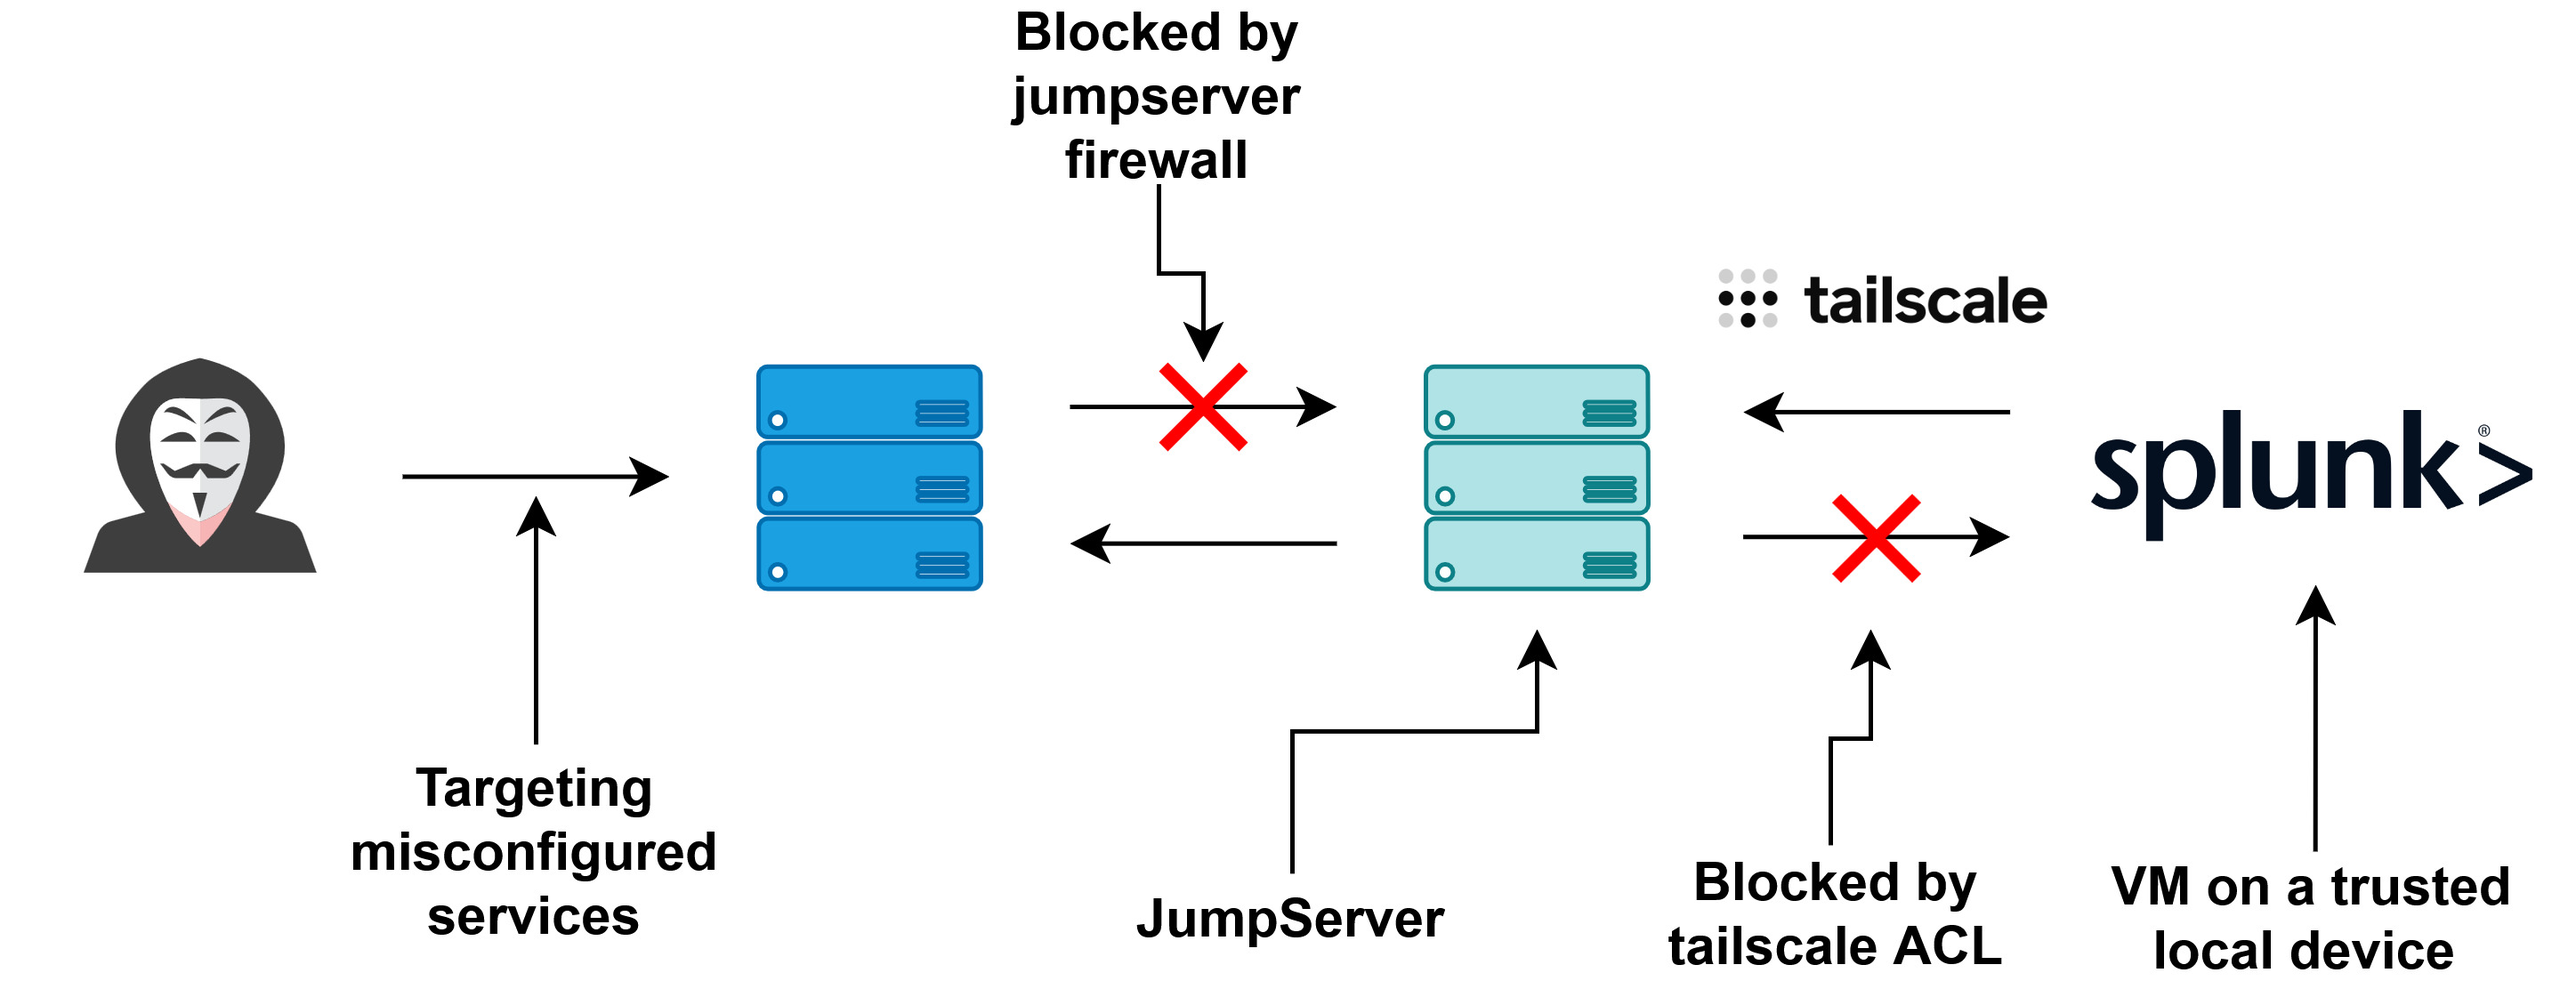
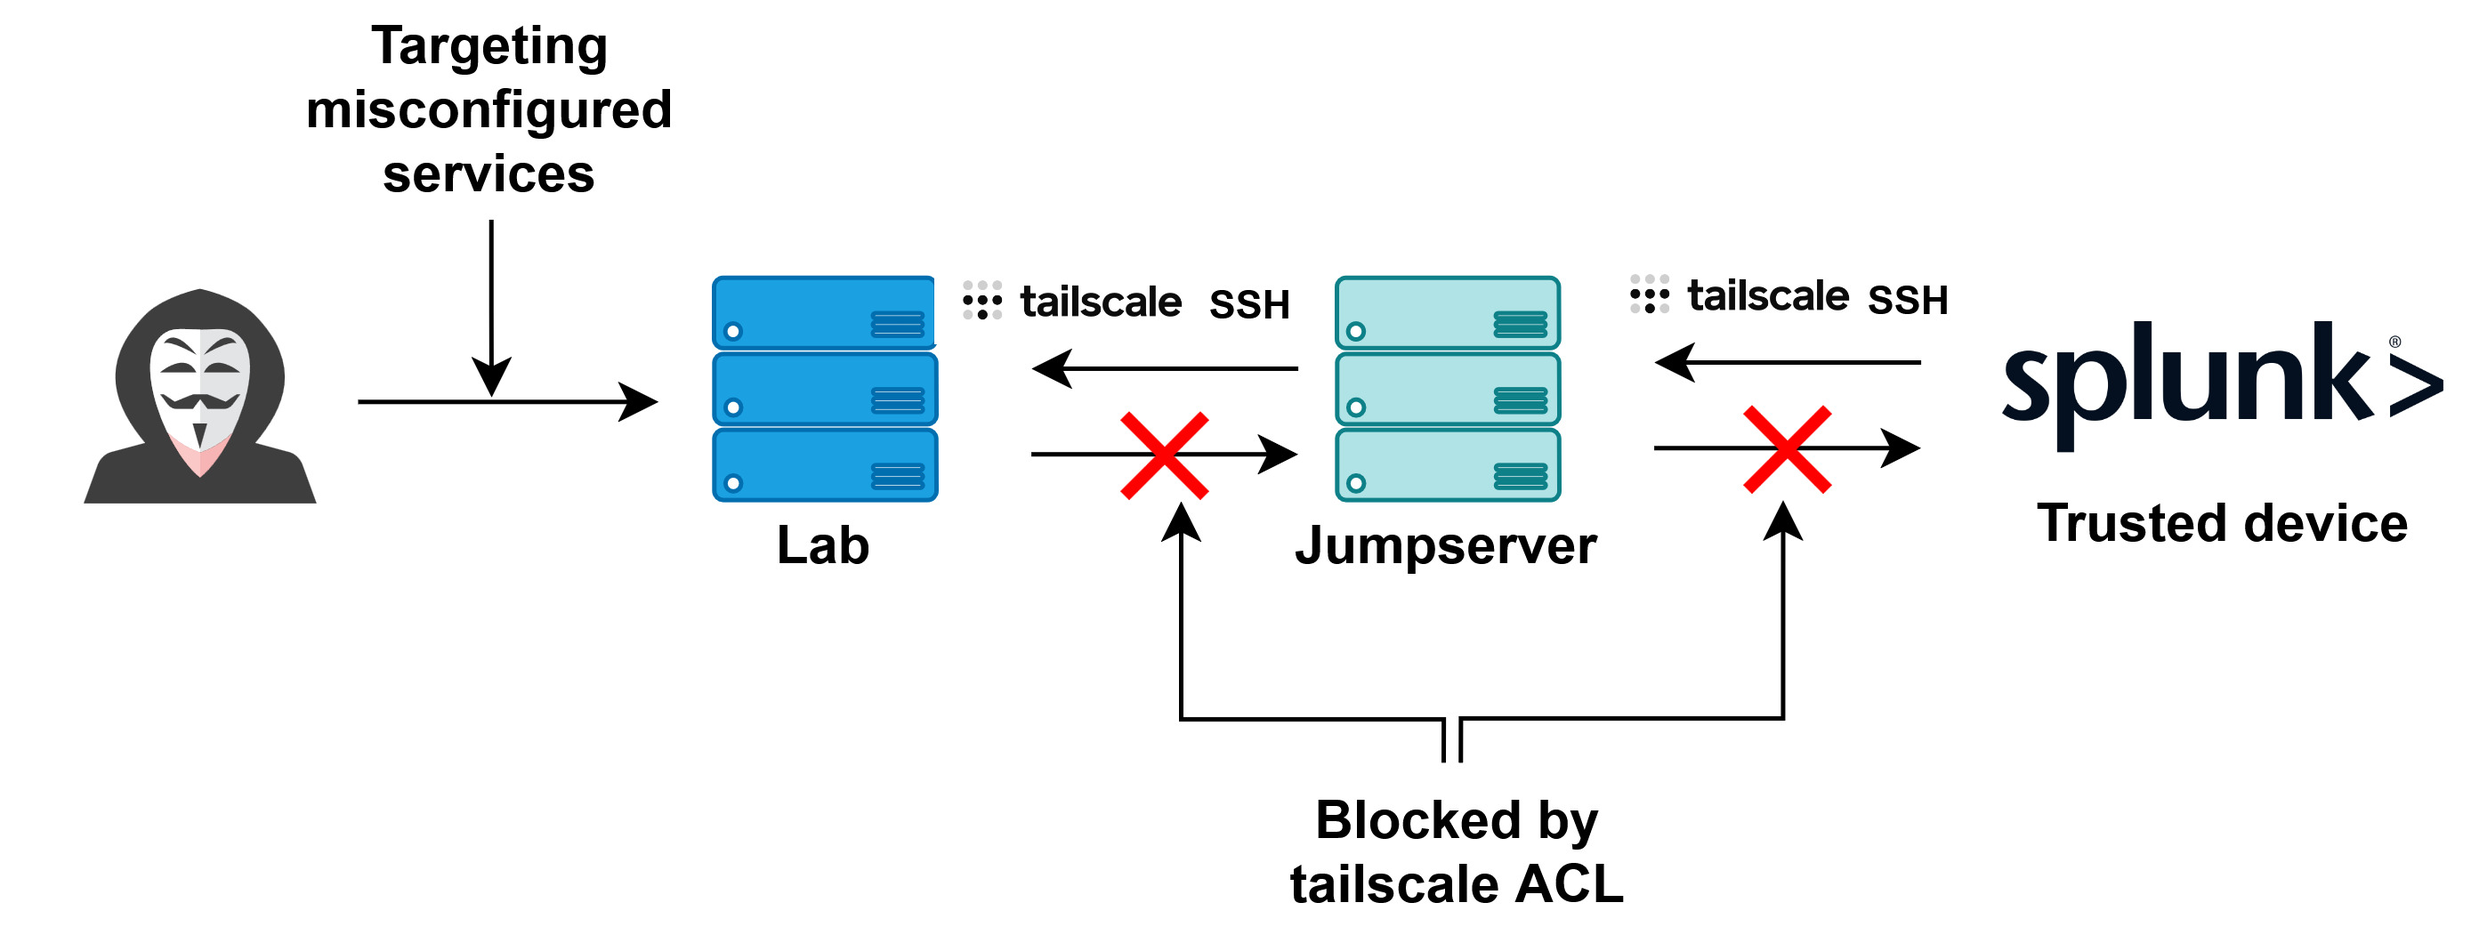
blog1

diff --git a/vite.config.js b/vite.config.js
@@ -4,9 +4,9 @@ import { defineConfig } from 'vite';
 export default defineConfig({
 	plugins: [sveltekit()],
 	server: {
-        host:'0.0.0.0',
-        fs: {
-            allow: ['..']
-        }
-    }
+		// host:'0.0.0.0',
+		fs: {
+			allow: ['..']
+		}
+	}
 });

diff --git a/src/lib/posts/Splunk_Log_Analysis_On_Oracle_Cloud_Instance.md.md b/src/lib/posts/Splunk_Log_Analysis_On_Oracle_Cloud_Instance.md.md
@@ -1,5 +1,5 @@
 ---
-title: "Splunk Log Analysis On Oracle Cloud Instance"
+title: "Splunk Setup On Oracle Cloud Instance"
 date: "2025-11-25"
 updated: "2025-11-25"
 categories:
@@ -29,7 +29,7 @@ While my [personal homelab](https://github.com/hiCozyty/homelab) is still a work
 
 So we turn to either AWS or Oracle Cloud who offer free plans. Since I'm already using AWS, Oracle it is. I know Azure also offer a generous plan, but I'm saving that for Windows stuff later down the road.  
 
-For capturing potential sniffing or attacks, Oracle Cloud Infrastructure (OCI) provides an [in-house solution](https://blogs.oracle.com/observability/la-demystifying-agent-om-oci) called `OCI Observability and Management`, in which monitoring agents are deployed and the logs are automatically captured in their OCI log storage. 
+For capturing potential sniffing or attacks, Oracle Cloud Infrastructure (OCI) provides an [in-house solution](https://blogs.oracle.com/observability/la-demystifying-agent-om-oci) called `OCI Observability and Management`, in which monitoring agents are deployed. The logs that are then automatically captured in the OCI log storage. 
 
 When considering the data ingestion limit of splunk free tier at 500MB/day and OCI log storage limit of 10GB/month, OCI log storage is the bottleneck here. 
 
@@ -48,9 +48,15 @@ This instance can remain free afterwards.
 ## Objectives
 The endgoal for me is to produce a minimum working lab with secure logging attached where I can add more features to the log producing machine in the future based on my needs.
 
-The logs should undergo automatic pruning during rsyslog. 
+* First I need to secure the machines in a way that, if the lab VM is compromised, my trusted device is protected. 
 
-When considering Splunk free tier's daily data ingestion limit, I would need to implement some sort of network rate limiter or debouncer in the log producing machine.
+* When considering Splunk free tier's daily data ingestion limit, I would need to implement some sort of network rate limiter or debouncer in the lab machine.
+
+* The jump server, which will allow me to access the lab VM securely, will also serve as a data storage server. It has a storage limit of around 50GB. I will implement an automatic data pruner. 
+
+* I will need to implement some sort of data ingestion mechanism from the trusted device side. I'm leaning towards manual ingestion because I don't usually leave the machine on all day. I will figure this out when I get there.
+
+* For log forwarding from lab to jump server to my trusted device, I will use rsyslog and Splunk universal forwarder. 
 
 
 ## Planned Topology
@@ -65,28 +71,237 @@ When considering Splunk free tier's daily data ingestion limit, I would need to 
 
 ## Tailscale
 For this project, I'm using my throwaway account.
-![acl](/static/blogImages/blog1/acl.png)
-For quick sanity check, I uncommented the second line in the ACL and spun up a python http server then tried to `wget` from the jumpserver. `wget` was working when the second ACL line was uncommented, and not working when commented out. Perfect.
+![acl](/static/blogImages/blog1/acl.jpg)
+For quick sanity check, I spun up a python http server from splunk then tred to `wget` from either the jump server or the lab. It didn't work. Great.
 ```
 python3 -m http.server 8000
 ```
 
 ## Oracle Cloud Initial Configuration
-Let's first do some updates and run an auto updater so I can set it and forget it.
+Let's look at the official tailscale [documentation](https://tailscale.com/kb/1149/cloud-oracle) for accessing Oracle Cloud VMs privately using tailscale.
+Setup the ingress rules to allow `UDP port 41641`. 
 
-
-Default Username `opc` has sudo privilges by default. Let's follow principle of least privilege and create new user account.
+Then set to both jump server and lab:
 ```
-sudo adduser admin
-sudo mkdir -p /home/admin/.ssh
-sudo cp ~/.ssh/authorized_keys /home/admin/.ssh/
-sudo chown -R admin:admin /home/admin/.ssh
-sudo chmod 700 /home/admin/.ssh
-sudo chmod 600 /home/admin/.ssh/authorized_keys
+tailscale set --ssh --advertise-routes=10.0.0.0/24,169.254.169.254/32 --accept-dns=false
+```
+Then add Oracle DNS nameserver in the tailscale dashboard and approve the subnets.
+
+<Callout>
+For legal reasons, we will set the egress rule to DENY everything (with the exception of tailscale UDP and ICMP) inside the lab VM. Splunk learning is mostly parsing the initial point of contact logs.
+
+Post-compromise activity is cool and interesting, but I believe they are for more out of scope topics like threat intelligence and incident response.
+</Callout>
+
+## ssh logs 
+For this starter project, I will focus only on `/var/log/secure`, which hold ssh related logs. The next project will try to get other logs from sources such as intrusion detection systems, databases, web servers, etc. 
+
+Almalinux default rsyslog archive rate is every 7 days with a retention policy of 30 days. The plan is to change the archive rate for `/var/log/secure` to daily so I can properly monitor the daily log size to be under the 500MB limit. Then, implement an ingress traffic blocker using the [OCI CLI](https://github.com/oracle/oci-cli). 
+
+What is rsyslog? It is a daemon that created the `/var/log/secure` directory and writes to it.
+
+```
+sudo nano /etc/logrotate.d/secure-daily
+
+#Add this content:
+/var/log/secure
+{
+    daily
+    rotate 30
+    missingok
+    notifempty
+    compress
+    delaycompress
+    sharedscripts
+    postrotate
+        /usr/bin/systemctl reload rsyslog.service >/dev/null 2>&1 || true
+    endscript
+}
+
+# Remove `/var/log/secure` from the list, so it looks like:
+/var/log/cron
+/var/log/maillog
+/var/log/messages
+/var/log/spooler
+{
+    missingok
+    sharedscripts
+    postrotate
+        /usr/bin/systemctl reload rsyslog.service >/dev/null 2>&1 || true
+    endscript
+}
+#check for syntax errors
+sudo logrotate -d /etc/logrotate.d/secure-daily
+
+#force a rotation to test (actually rotates the file)
+sudo logrotate -f /etc/logrotate.d/secure-daily
+
+#verify it worked
+ls -lh /var/log/secure*
+
 ```
 
-## Jumpserver Firewall config
+## Configuring OCI CLI And Creating A Cronjob Log Size Watcher
+OCI provides a CLI tool SDK wrapper for managing ingress and egress rules directly from the machine. I will leverage this tool to create a watcher program that monitors the size of the log directory of interests (ssh for now) and automatically deny all network ingress traffic if the log size exceeds the daily threshold (500MB). 
 
+Since I updated the data archive rate to daily earlier, once the log size resets, the watcher will automatically restore the ingress rule to allow traffic again. 
+
+```
+# Install OCI CLI
+bash -c "$(curl -L https://raw.githubusercontent.com/oracle/oci-cli/master/scripts/install/install.sh)"
+
+# Configure with your credentials using OCID, Tenancy OCID, region, and API key (generate in OCI Console → User Settings → API Keys)
+oci setup config
+
+# List your VCN
+oci network vcn list --compartment-id <my-compartment-ocid>
+
+# List security lists for your VCN
+oci network security-list list --compartment-id <my-compartment-ocid> --vcn-id <my-vcn-ocid>
+
+# Save your security list OCID for the below script
+```
+Create a monitoring script with OCI cli
+```
+sudo nano /usr/local/bin/log-size-monitor.sh
+```
+```
+#!/bin/bash
+
+# Configuration
+MAX_SIZE_MB=500
+MAX_SIZE_BYTES=$((MAX_SIZE_MB * 1024 * 1024))
+ALERT_FILE="/var/log/log-size-alert"
+LOCKFILE="/var/run/network-blocked.lock"
+
+# OCI Configuration
+SECURITY_LIST_OCID="ocid1.securitylist.oc1...." # YOUR SECURITY LIST OCID HERE
+BACKUP_RULES_FILE="/var/log/oci-original-rules.json"
+
+# Array of log files to monitor
+LOG_FILES=(
+    "/var/log/secure"
+    # "/var/log/suricata/eve.json"
+    # "/var/log/httpd/access_log"
+)
+
+# Calculate total size
+TOTAL_SIZE=0
+for LOG_FILE in "${LOG_FILES[@]}"; do
+    if [ -f "$LOG_FILE" ]; then
+        FILE_SIZE=$(stat -c%s "$LOG_FILE" 2>/dev/null)
+        TOTAL_SIZE=$((TOTAL_SIZE + FILE_SIZE))
+    fi
+done
+
+TOTAL_SIZE_MB=$((TOTAL_SIZE / 1024 / 1024))
+
+# Check if currently blocked
+if [ -f "$LOCKFILE" ]; then
+    # We're blocked - check if we can restore
+    if [ "$TOTAL_SIZE" -lt "$MAX_SIZE_BYTES" ]; then
+        echo "$(date): Log size back to normal (${TOTAL_SIZE_MB}MB), restoring network..." >> "$ALERT_FILE"
+        
+        # Restore original ingress rules from backup
+        if [ -f "$BACKUP_RULES_FILE" ]; then
+            ORIGINAL_RULES=$(cat "$BACKUP_RULES_FILE")
+            
+            oci network security-list update \
+              --security-list-id "$SECURITY_LIST_OCID" \
+              --ingress-security-rules "$ORIGINAL_RULES" \
+              --force >> "$ALERT_FILE" 2>&1
+            
+            if [ $? -eq 0 ]; then
+                rm -f "$LOCKFILE"
+                rm -f "$BACKUP_RULES_FILE"
+                echo "$(date): Network restored via OCI" >> "$ALERT_FILE"
+            else
+                echo "$(date): ERROR: Failed to restore network rules" >> "$ALERT_FILE"
+            fi
+        else
+            echo "$(date): ERROR: Backup rules file not found" >> "$ALERT_FILE"
+        fi
+    fi
+else
+    # Not blocked - check if we should block
+    if [ "$TOTAL_SIZE" -ge "$MAX_SIZE_BYTES" ]; then
+        echo "$(date): Combined log size exceeded ${MAX_SIZE_MB}MB (current: ${TOTAL_SIZE_MB}MB)" >> "$ALERT_FILE"
+        
+        # List individual file sizes
+        echo "$(date): Individual file sizes:" >> "$ALERT_FILE"
+        for LOG_FILE in "${LOG_FILES[@]}"; do
+            if [ -f "$LOG_FILE" ]; then
+                SIZE=$(stat -c%s "$LOG_FILE" 2>/dev/null)
+                SIZE_MB=$((SIZE / 1024 / 1024))
+                echo "  $LOG_FILE: ${SIZE_MB}MB" >> "$ALERT_FILE"
+            fi
+        done
+        
+        # Backup current ingress rules
+        oci network security-list get \
+          --security-list-id "$SECURITY_LIST_OCID" \
+          --query 'data."ingress-security-rules"' \
+          > "$BACKUP_RULES_FILE" 2>> "$ALERT_FILE"
+        
+        # Block all ingress traffic (except Tailscale if you want to keep access)
+        # Option A: Block everything
+        BLOCK_RULES='[{"source":"0.0.0.0/0","protocol":"all","isStateless":true,"description":"AUTO-BLOCK: Log limit exceeded"}]'
+        
+        # Option B: Block everything except Tailscale (recommended)
+        # BLOCK_RULES='[{"source":"0.0.0.0/0","protocol":"all","isStateless":true,"tcpOptions":null,"udpOptions":null,"description":"AUTO-BLOCK"},{"source":"0.0.0.0/0","protocol":"17","isStateless":false,"udpOptions":{"destinationPortRange":{"min":41641,"max":41641}},"description":"Keep Tailscale"}]'
+        
+        oci network security-list update \
+          --security-list-id "$SECURITY_LIST_OCID" \
+          --ingress-security-rules "$BLOCK_RULES" \
+          --force >> "$ALERT_FILE" 2>&1
+        
+        if [ $? -eq 0 ]; then
+            touch "$LOCKFILE"
+            echo "$(date): Emergency network block activated via OCI" >> "$ALERT_FILE"
+        else
+            echo "$(date): ERROR: Failed to apply network block" >> "$ALERT_FILE"
+        fi
+    fi
+fi
+```
+
+```
+# make executable
+sudo chmod +x /usr/local/bin/log-size-monitor.sh
+```
+
+The script runs as root via cron, so root needs access to OCI CLI config:
+```
+# If you configured OCI CLI as opc user
+sudo mkdir -p /root/.oci
+sudo cp ~/.oci/config /root/.oci/
+sudo cp ~/.oci/oci_api_key.pem /root/.oci/
+sudo chmod 600 /root/.oci/config /root/.oci/oci_api_key.pem
+```
+
+Let's test it
+```
+# Test OCI CLI works as root
+sudo oci network security-list get --security-list-id <your-ocid>
+
+# Test the script manually
+sudo /usr/local/bin/log-size-monitor.sh
+
+# Check for errors
+cat /var/log/log-size-alert
+```
+Add to cronjob that watches the log file(s) every 1 minute
+
+```
+sudo crontab -e
+* * * * * /usr/local/bin/log-size-monitor.sh
+```
+
+The cronjob should now handle automatic network restoration after every daily archive.
+
+## Automated Log Data Pusher From Lab To Jumpserver With Pruning
+
+## Splunk Universal Forwarder From Jumpserver To Splunk
 
 ## Resources
 https://tailscale.com/kb/1149/cloud-oracle

diff --git a/README.md b/README.md
@@ -1,3 +1,3 @@
 # November 2025
 
-[Splunk Log Analysis On Oracle Cloud Instance](/blog/Splunk_Log_Analysis_On_Oracle_Cloud_Instance.md)
+[Splunk Setup On Oracle Cloud Instance](/blog/Splunk_Log_Analysis_On_Oracle_Cloud_Instance.md)
